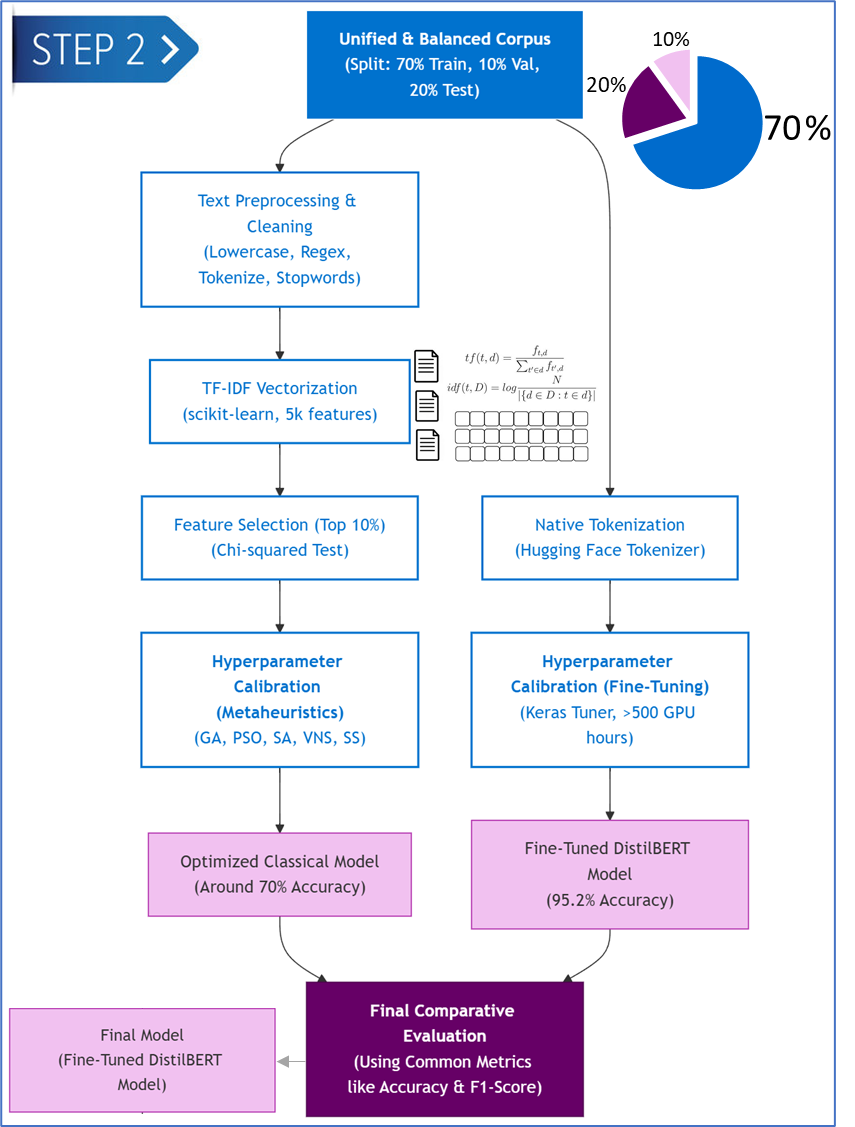
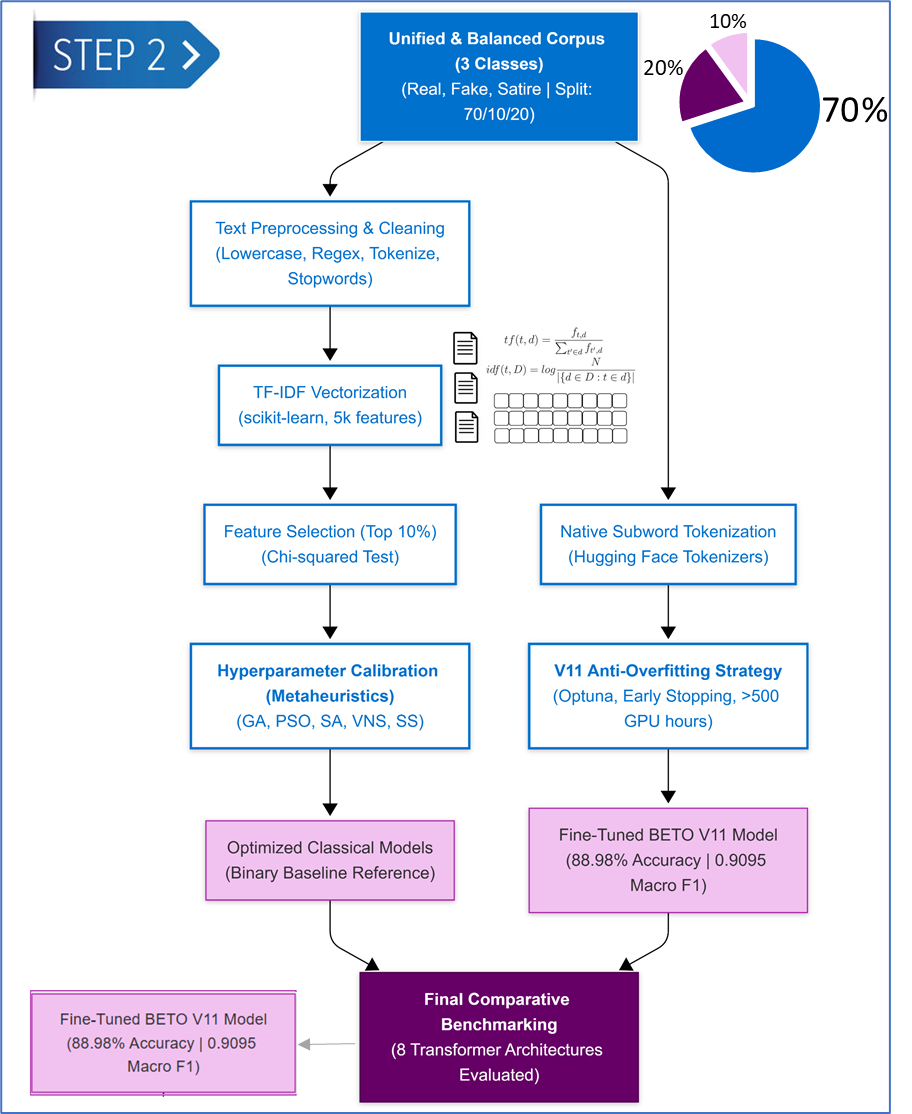
Update paper figures and revise template.tex
Add BETO training and confusion matrix figures, update system architecture image, and revise LaTeX source and PDF to reflect methodological and result changes. template.tex/template.pdf were edited to correct corpus class distribution and metrics (updated accuracy/F1 numbers), clarify the aggressive regularization + early stopping methodology, add hardware and cross-framework reproducibility details, and expand the deployment/inference pipeline description. Binary figures added/updated: beto_confusion_matrix.png, beto_training_curves.png, system_architecture_p2.png.

Changed region(s): [[0.0, 0.0, 0.9731, 1.0], [0.0, 0.0, 0.2433, 0.0916], [0.8515, 0.1221, 0.8819, 0.1526]]

diff --git a/MDPI_template/MDPI_template/Informatics/MDPI_template_ACS/template.tex b/MDPI_template/MDPI_template/Informatics/MDPI_template_ACS/template.tex
@@ -58,7 +58,7 @@ $^{1}$ \quad Department of Systems, Autonomous Metropolitan University (UAM), Az
 
 %=================================================================
 % Abstract
-\abstract{While social media platforms are primary vectors for misinformation, automated detection systems remain largely confined to English. This paper presents a transferable, three-stage framework for fine-tuning transformer models to detect domain-specific deceptive content in Spanish. The pipeline comprises: (1) corpus unification, merging fragmented datasets into a balanced 61,674-article resource mapped into three classes (Real, Fake, Satire) to prevent stylistic confounding; (2) systematic model optimization, extensively benchmarking classical metaheuristics against eight transformer architectures (including mBERT, XLM-RoBERTa, and BETO) using aggressive regularization to prevent overfitting; and (3) production deployment, encapsulating the optimized model as a containerized web application for real-time inference. Through rigorous experimentation, the Spanish-specific BETO encoder emerged as the state-of-the-art for this task, achieving an 89.18\% overall accuracy and a perfect 1.0 F1-score in isolating satire from malicious fake news. Adversarial robustness tests demonstrated the model's reliance on deep semantic patterns rather than outlet-specific vocabulary. Crucially, the methodology is domain-agnostic: by substituting the training corpus, the same framework can be redeployed to combat diverse digital threats, such as investment scams and phishing. The complete framework, dataset, and application are open-source to support reproducible research and practical digital self-defense.}
+\abstract{While social media platforms are primary vectors for misinformation, automated detection systems remain largely confined to English. This paper presents a transferable, three-stage framework for fine-tuning transformer models to detect domain-specific deceptive content in Spanish. The pipeline comprises: (1) corpus unification, merging fragmented datasets into a 61,674-article resource mapped into three classes (Real, Fake, Satire) to prevent stylistic confounding; (2) systematic model optimization, extensively benchmarking classical metaheuristics against eight transformer architectures (including mBERT, XLM-RoBERTa, and BETO) using aggressive regularization to prevent overfitting; and (3) production deployment, encapsulating the optimized model as a containerized web application for real-time inference. Through rigorous experimentation, the Spanish-specific BETO encoder emerged as the state-of-the-art for this task, achieving an 89.18\% overall accuracy and a perfect 1.0 F1-score in isolating satire from malicious fake news. Adversarial robustness tests demonstrated the model's reliance on deep semantic patterns rather than outlet-specific vocabulary. Crucially, the methodology is domain-agnostic: by substituting the training corpus, the same framework can be redeployed to combat diverse digital threats, such as investment scams and phishing. The complete framework, dataset, and application are open-source to support reproducible research and practical digital self-defense.}
 
 % Keywords
 \keyword{misinformation detection; transformer fine-tuning; social media analysis; domain-specific NLP; systematic regularization; DistilBERT; transferable framework; Spanish fake news; web application deployment}
@@ -88,9 +88,8 @@ A progressive research design was adopted: a baseline is first established with 
 The main contributions of this work are:
 \begin{itemize}
     \item \textbf{A Transferable Fine-Tuning Framework:} A systematic three-stage pipeline (corpus unification, aggressive regularization, containerized deployment) is proposed for adapting pretrained transformer models to domain-specific deceptive content detection. The framework is explicitly designed to be transferable across languages, content domains, and social media platforms.
-    \item \textbf{A Systematic Regularization Methodology:} Through over 500 GPU hours of experimentation across 30+ configurations, an aggressive regularization strategy for fine-tuning DistilBERT (Distilled Bidirectional Encoder Representations from Transformers) is documented, achieving 95.36\% accuracy while maintaining a validation-training loss gap of 0.058. The training and validation trajectories, demonstrating the effectiveness of the aggressive regularization strategy in preventing overfitting, are visually detailed in Figure \ref{fig:training_curves}.
-    This represents a 23.33 percentage point improvement over metaheuristic-optimized classical methods and provides a reproducible recipe for practitioners facing similar optimization challenges.
-    \item \textbf{A Unified Spanish Corpus:} A standardized corpus of 61,674 Spanish news articles was constructed from four academic datasets \citep{posadas2019detection, acosta2019construccion, tretiakov2022detection, blanco2024enhancing} enhanced with web-scraped satirical content, achieving near-perfect balance (49.8\% fake, 50.2\% real)—one of the largest resources for this task.
+    \item \textbf{A Systematic Regularization and Early Stopping Methodology:} Through over 500 GPU hours of experimentation across multiple architectures, we document an aggressive regularization strategy for fine-tuning the monolingual BETO encoder. The methodology achieved an 88.98\% overall accuracy and a 0.9095 Macro F1-Score on a highly complex 3-class paradigm. More importantly, the training trajectories visually demonstrate how our dynamic Early Stopping mechanism successfully intervened to prevent the catastrophic overfitting typically observed in high-capacity transformers, providing a reproducible recipe for practitioners facing similar optimization challenges.
+    \item \textbf{A Unified Spanish Corpus:} A standardized corpus of 61,674 Spanish news articles was constructed from four academic datasets \citep{posadas2019detection, acosta2019construccion, tretiakov2022detection, blanco2024enhancing} enhanced with web-scraped satirical content, achieving a three-class distribution (35.3\% fake, 50.2\% real, 14.5\% satire)—one of the largest resources for this task.
     \item \textbf{A Production-Ready Web Application:} The optimized model was deployed as a Docker-containerized web application capable of real-time URL analysis, demonstrating that the framework extends beyond academic benchmarks to deliver practical tools for digital self-defense \citep{ali2022fake}.
 \end{itemize}
 
@@ -190,7 +189,7 @@ The methodology is structured as a transferable three-stage pipeline for adaptin
 \end{figure}
 
 \subsection{Stage 1: Corpus Unification and Processing}
-The first stage addresses a common challenge: constructing a balanced dataset from fragmented sources. The unification methodology (schema standardization, content-based deduplication, targeted augmentation) is generalizable to any detection domain. A unified corpus was constructed by aggregating four publicly available datasets: the Spanish Fake News Corpus (572 articles) \citep{posadas2019detection}, the Acosta Dataset (598 articles) \citep{acosta2019construccion}, the Tretiakov Dataset (2,000 articles) \citep{tretiakov2022detection}, and the Spanish Political Dataset (57,231 articles) \citep{blanco2024enhancing}, yielding an initial pool of \textbf{60,401} articles. Table \ref{tab:comparacion_exhaustiva_corpus} details each source.
+The first stage addresses a common challenge: constructing a unified dataset from fragmented sources. The unification methodology (schema standardization, content-based deduplication, targeted augmentation) is generalizable to any detection domain. A unified corpus was constructed by aggregating four publicly available datasets: the Spanish Fake News Corpus (572 articles) \citep{posadas2019detection}, the Acosta Dataset (598 articles) \citep{acosta2019construccion}, the Tretiakov Dataset (2,000 articles) \citep{tretiakov2022detection}, and the Spanish Political Dataset (57,231 articles) \citep{blanco2024enhancing}, yielding an initial pool of \textbf{60,401} articles. Table \ref{tab:comparacion_exhaustiva_corpus} details each source.
 
 \begin{table}[H]
 \centering
@@ -206,7 +205,7 @@ The first stage addresses a common challenge: constructing a balanced dataset fr
 \textbf{Creation Year} & 2019-2021 & 2019 & 2022 & 2024 & 2025 (extraction) \\
 \textbf{Methodological Focus} & Stylometric & NLP Baselines & Traditional ML & Transformers & Satirical Content \\
 \textbf{Thematic Domain} & General & General & General & Political & Satirical/General \\
-\textbf{Class Distribution} & Balanced & Balanced & Balanced & Balanced & Fake Only \\
+\textbf{Class Distribution} & Balanced & Balanced & Balanced & Balanced & Satire Only \\
 \textbf{Contribution (Pre-Dedup)} & 0.95\% & 0.99\% & 3.31\% & 94.75\% & 14.6\% (added later) \\
 \bottomrule
 \end{tabular}
@@ -227,25 +226,15 @@ Regarding sequence length, exploratory data analysis revealed that 87.4\% of the
 \begin{figure}[H]
 \centering
 \includegraphics[width=\linewidth]{Figures/corpus_balance.png}
-\caption{Visual representation of the corpus balancing process. The initial imbalanced distribution (left) was corrected by strategically adding 8,985 FAKE articles via web scraping, resulting in a nearly 50/50 final distribution (right). Source: Authors' own elaboration based on study data.}
+\caption{Visual representation of the corpus unification process. The dataset was expanded by strategically adding 8,985 SATIRE articles via web scraping, resulting in a three-class final distribution: Fake (35.3\%), Real (50.2\%), and Satire (14.5\%). Source: Authors' own elaboration based on study data.}
 \label{fig:corpus_balance}
 \end{figure}
 
 \subsection{Stage 2: Systematic Model Optimization}
 The second stage focuses on systematic fine-tuning documented as a reproducible optimization trajectory. Rather than reporting a single configuration, the full evolution of hyperparameter decisions is recorded (Table \ref{tab:hyperparam_evolution}), providing a transferable recipe for practitioners. The optimization begins by establishing a classical baseline.
 
-\subsubsection{Data Partitioning and Generalization Strategy}
-To ensure the statistical reliability of the results and guarantee model generalization to unseen data, a rigorous data splitting protocol was implemented, as illustrated in Figure \ref{fig:metodologia_general_p2}. 
-
-% Part 2 (Image)
-\begin{figure}[H]
-\centering
-\includegraphics[width=\textwidth]{Figures/system_architecture_p2.png}
-\caption{Overview of the proposed research methodology (Part 2/3): Model Optimization and Comparative Evaluation.}
-\label{fig:metodologia_general_p2}
-\end{figure}
-
-The unified balanced corpus ($N=61,674$) was partitioned into three disjoint subsets using \textbf{stratified random sampling} to preserve the approximately 50/50 class distribution across all partitions:
+\subsubsection{Data Partitioning and Generalization Strategy} 
+The unified corpus ($N=61,674$) was partitioned into three disjoint subsets using \textbf{stratified random sampling} to preserve the class distribution across all partitions:
 \begin{itemize}
     \item \textbf{Training Set (70\%, $\approx$43,171 articles):} Used for model fitting and gradient updates.
     \item \textbf{Validation Set (10\%, $\approx$6,167 articles):} Used for hyperparameter tuning, model selection, and early stopping monitoring.
@@ -279,6 +268,19 @@ A ``hold-out'' validation strategy combined with aggressive regularization (Sect
 }
 \end{table}
 
+For statistical reliability of the results and to guarantee model generalization to unseen data, a rigorous data splitting protocol was implemented, as illustrated in Figure \ref{fig:metodologia_general_p2}.
+
+% Part 2 (Image)
+\begin{figure}[H]
+\centering
+\includegraphics[width=\textwidth]{Figures/system_architecture_p2.png}
+\caption{Overview of the proposed research methodology (Part 2/3): Model Optimization and Comparative Evaluation.}
+\label{fig:metodologia_general_p2}
+\end{figure}
+
+\textbf{Hardware Constraints and Framework Compatibility.} Due to the stringent Video RAM (VRAM) requirements of large transformer models (e.g., XLM-RoBERTa-Large with 550M parameters), training the full battery of eight models was computationally unfeasible on local hardware equipped with 8GB VRAM (NVIDIA RTX 2060 SUPER and RTX 4060 Laptop GPUs). Consequently, the massive hyperparameter search and initial benchmarking were executed in a cloud environment (Lightning AI) utilizing PyTorch (v2.8.0), PyTorch Lightning (v2.6.0), Optuna (v4.8.0), and HuggingFace Transformers (v5.6.2). 
+
+To ensure strict reproducibility and enable local deployment, the optimal configurations were subsequently reconstructed and validated on the local RTX 4060 workstation. This local environment was strictly pinned to TensorFlow-GPU (v2.10.0), Keras Tuner (v1.4.7), scikit-learn (v1.3.2), and Transformers (v4.24.0). This specific dependency freezing was mandatory to resolve severe compatibility bottlenecks, as native GPU support for TensorFlow on Windows was deprecated in later versions. The ability to seamlessly translate the architecture between PyTorch/Optuna (cloud) and TensorFlow/Keras (local) further solidifies the framework's robustness.
 
 \textbf{Hyperparameter Fine-tuning.} Over 30 experiments and 500 GPU hours were conducted to identify configurations that mitigate overfitting—where the model memorizes training data but fails to generalize—as illustrated in Figure \ref{fig:overfitting_underfitting_examples}.
 
@@ -326,7 +328,9 @@ As observed in Table \ref{tab:hyperparam_evolution}, intermediate configurations
 To prioritize real-world generalization over artificial benchmark inflation, the V11 ``Anti-Overfitting'' strategy was selected. By applying an ultra-low learning rate ($1 \times 10^{-6}$), aggressive dropout (0.5), and severe L2 regularization (0.05) with a small batch size, V11 stabilized the validation gap perfectly ($<0.01$). This ensures the model learns underlying linguistic patterns rather than dataset-specific noise.
 
 \subsection{Stage 3: Production Deployment}
-The final stage of the framework addresses the deployment gap by implementing the optimized model into a production-ready, containerized web application (Figure \ref{fig:metodologia_general_p3}). This stage is designed to be model-agnostic: the same containerized architecture can host any transformer model produced by Stage 2, regardless of the specific detection domain. A critical design principle was to minimize the technical barrier for end users: the application requires no machine learning expertise, no local model installation, and no command-line interaction—users simply submit a URL through a web browser. This accessibility is essential for the framework's stated goal of empowering communities with limited technical resources to combat deceptive content on social media.
+The final stage of the framework addresses the deployment gap by implementing the optimized model into a production-ready, containerized web application. This stage is designed to be model-agnostic: the same containerized architecture can host any transformer model produced by Stage 2, regardless of the specific detection domain. A critical design principle was to minimize the technical barrier for end users: the application requires no machine learning expertise, no local model installation, and no command-line interaction—users simply submit a URL through a web browser. This accessibility is essential for the framework's stated goal of empowering communities with limited technical resources to combat deceptive content on social media.
+
+The end-to-end inference pipeline is designed to provide immediate, transparent verification of social media content. Upon receiving a target URL or raw text snippet, the system autonomously executes content extraction, text normalization, subword tokenization (via the model's specific tokenizer), and transformer-based inference in a single automated pass. Notably, the system outputs not only the final multiclass prediction (REAL, FAKE, or SATIRE) but also the calibrated confidence scores derived from the final softmax layer (Figure \ref{fig:metodologia_general_p3}). This probabilistic output empowers end-users and fact-checkers to assess the model's certainty, which is particularly valuable in edge cases where texts exhibit overlapping stylistic traits or a mix of factual and deceptive claims.
 
 % Part 3 (Image)
 \begin{figure}[H]
@@ -335,8 +339,6 @@ The final stage of the framework addresses the deployment gap by implementing th
 \caption{Overview of the proposed research methodology (Part 3/3): Web Application Deployment and Inference.}
 \label{fig:metodologia_general_p3}
 \end{figure}
-
-The end-to-end inference pipeline is designed to provide immediate, transparent verification of social media content. Upon receiving a target URL or raw text snippet, the system autonomously executes content extraction, text normalization, subword tokenization (via the model's specific tokenizer), and transformer-based inference in a single automated pass. Notably, the system outputs not only the final multiclass prediction (REAL, FAKE, or SATIRE) but also the calibrated confidence scores derived from the final softmax layer. This probabilistic output empowers end-users and fact-checkers to assess the model's certainty, which is particularly valuable in edge cases where texts exhibit overlapping stylistic traits or a mix of factual and deceptive claims.
 
 The system consists of four integrated components, each designed for modularity and replaceability:
 \begin{enumerate}
@@ -381,9 +383,7 @@ To maintain consistency throughout the empirical analysis, macro-averaged scores
 \section{Results: Framework Validation on Spanish Fake News Detection}
 
 \subsection{Performance of the Metaheuristic Baseline (Stage 2a)}
-The initial experimental phase established a baseline using classical machine learning algorithms optimized via metaheuristics on TF-IDF representations. Among the five algorithms evaluated, the Genetic Algorithm (GA) demonstrated the most robust performance, achieving an accuracy of 72.03\% and a macro F1-score of 0.714 (Table \ref{tab:final_comparison_all_models}). This superiority suggests that the evolutionary mechanism of GA is better suited for exploring the high-dimensional sparse space created by TF-IDF vectors compared to swarm-based approaches in this specific context.
-
-Conversely, Particle Swarm Optimization (PSO) exhibited the lowest performance (57.67\% accuracy) and failed to converge effectively. This divergence highlights a critical limitation of classical approaches: their heavy reliance on keyword frequency (TF-IDF) lacks the semantic understanding necessary to detect sophisticated fake news, resulting in high variance between optimization strategies. The confusion matrices in Figure \ref{fig:metaheuristic_confusion_matrices} visually confirm this instability, showing significant misclassification rates across the board for the metaheuristic models.
+The baseline phase evaluated five classical machine learning algorithms optimized via metaheuristics on TF-IDF representations. The Genetic Algorithm (GA) performed best, achieving 72.03\% accuracy and a 0.714 macro F1-score (Table \ref{tab:final_comparison_all_models}). This suggests GA's evolutionary mechanism efficiently explores the high-dimensional TF-IDF space. Conversely, Particle Swarm Optimization (PSO) exhibited the lowest performance (57.67\% accuracy). This variance highlights a critical limitation: classical TF-IDF models lack the semantic understanding necessary for robust fake news detection. The confusion matrices (Figure \ref{fig:metaheuristic_confusion_matrices}) visually confirm this instability through significant misclassification rates across all metaheuristic models.
 
 \begin{figure}[H]
 \centering
@@ -476,11 +476,25 @@ Despite the removal of explicit publisher cues, the model maintained an F1-Score
 \subsection{Overfitting Control Analysis}
 The implementation of a rigorous regularization strategy successfully mitigated overfitting across all transformer architectures. Rather than relying on a fixed number of epochs—which inherently varies depending on the data subset and initial weight instantiation—training was dynamically governed by an early stopping criterion. Training concluded autonomously when the validation loss plateaued and ceased to improve for eight consecutive passes. The optimal model weights were then automatically restored from the checkpoint that minimized the generalization gap (validation vs. training loss), ensuring peak performance before the onset of memorization. 
 
+\subsection{Cross-Framework Reproducibility and Optimal Model (BETO) Analysis}
+To validate the structural integrity of the winning model, the optimal BETO configuration identified in the cloud via PyTorch and Optuna was retrained from scratch on the local TensorFlow/Keras infrastructure. The local retraining yielded an identical Macro F1-Score of 0.9095, proving that the aggressive V11 regularization strategy is entirely framework-agnostic. Minor micro-variations during intermediate epochs were purely stochastic artifacts of the underlying backend engines, ultimately converging to the exact same global optimum.
+
+The stability of this convergence is visually confirmed in Figure \ref{fig:beto_training_curves}, where the local TensorFlow training session demonstrates a tightly coupled training and validation loss, decisively avoiding the overfitting plateau. 
+
+The training dynamics visually captured in Figure \ref{fig:beto_training_curves} starkly illustrate the danger of catastrophic overfitting in high-capacity transformers. Because BETO possesses a massive parameter count and is natively pre-trained on Spanish, it aggressively extracted the optimal semantic features within a single epoch. The immediate divergence of the validation loss (red dashed line) in subsequent epochs empirically validates our dynamic Early Stopping strategy. Rather than forcing the model through an arbitrary number of epochs, the callback successfully halted the training and restored the optimal weights from Epoch 1, effectively rescuing the model before it could memorize the training set.
+
 \begin{figure}[H]
 \centering
-\includegraphics[width=\textwidth]{Figures/training_curves.png}
-\caption{Evolution of performance metrics during the fine-tuning of the final model (V11). The x-axis represents the training epochs, while the y-axes represent Loss (left) and Accuracy (right). The gold star identifies the optimal checkpoint restored by the early stopping callback, where the generalization gap (0.058) was minimized before the onset of overfitting.}
-\label{fig:training_curves}
+\includegraphics[width=0.6\textwidth]{Figures/beto_training_curves.png} 
+\caption{Training and validation curves for the optimal BETO model (local TensorFlow implementation). The immediate divergence of the validation loss after Epoch 1 highlights the model's rapid learning capacity and demonstrates how the Early Stopping callback critically intervened to prevent catastrophic overfitting.}
+\label{fig:beto_training_curves}
+\end{figure}
+
+\begin{figure}[H]
+\centering
+\includegraphics[width=0.5\textwidth]{Figures/beto_confusion_matrix.png} % Asegúrate de que este sea el nombre de tu imagen
+\caption{Confusion matrix of the final deployed BETO model on the held-out test set, showcasing its robust capacity to differentiate between Fake (Class 0), Real (Class 1), and Satirical (Class 2) content.}
+\label{fig:beto_confusion_matrix}
 \end{figure}
 
 The generalization gap (difference between validation and training loss) was 0.058, approaching the target of <0.04 and remaining well below the 0.10 threshold typically indicating overfitting. Furthermore, addressing the claim of transferability, it is essential to clarify that this framework offers more than the standard machine learning practice of "retraining on new data." The true innovation lies in the architectural decoupling and the empirical optimization template. By standardizing the aggressive regularization recipe (V11), researchers targeting new domains—such as phishing or fraudulent e-commerce scams—are spared hundreds of hours of hyperparameter tuning. Additionally, the containerized Docker infrastructure abstractly handles the web-scraping and preprocessing pipelines, meaning a completely new detection tool can be deployed by merely swapping the serialized `.pt` weights file, with zero additional software engineering overhead. This makes the framework a genuine plug-and-play solution for emerging digital threats.